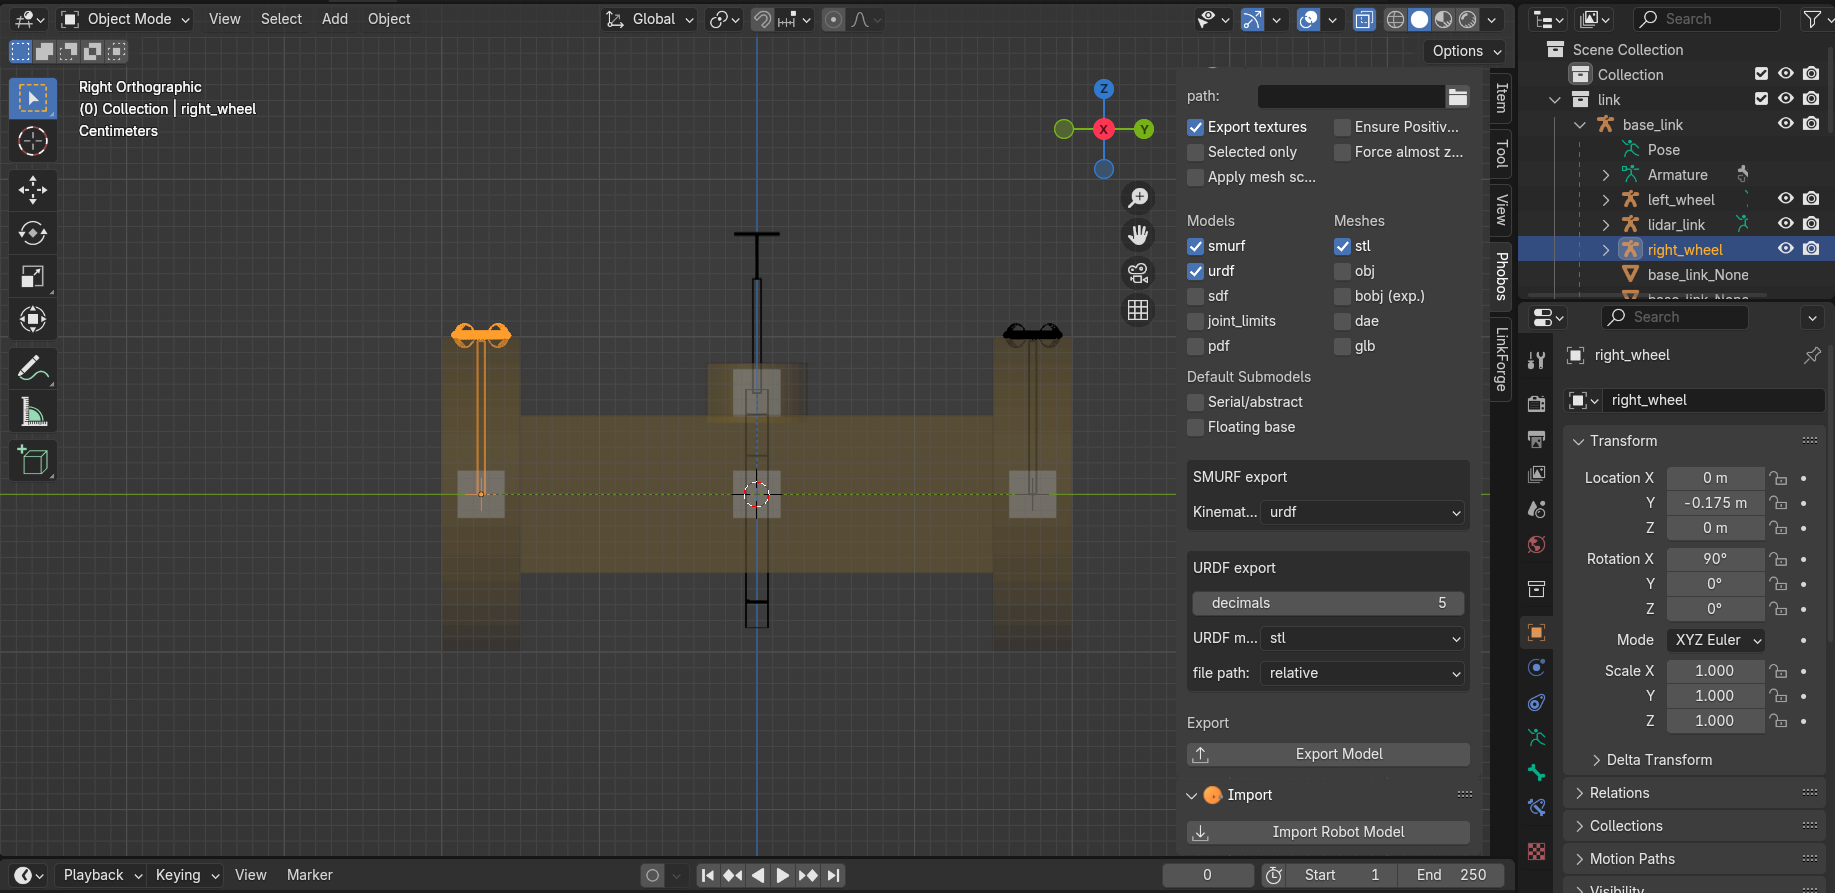
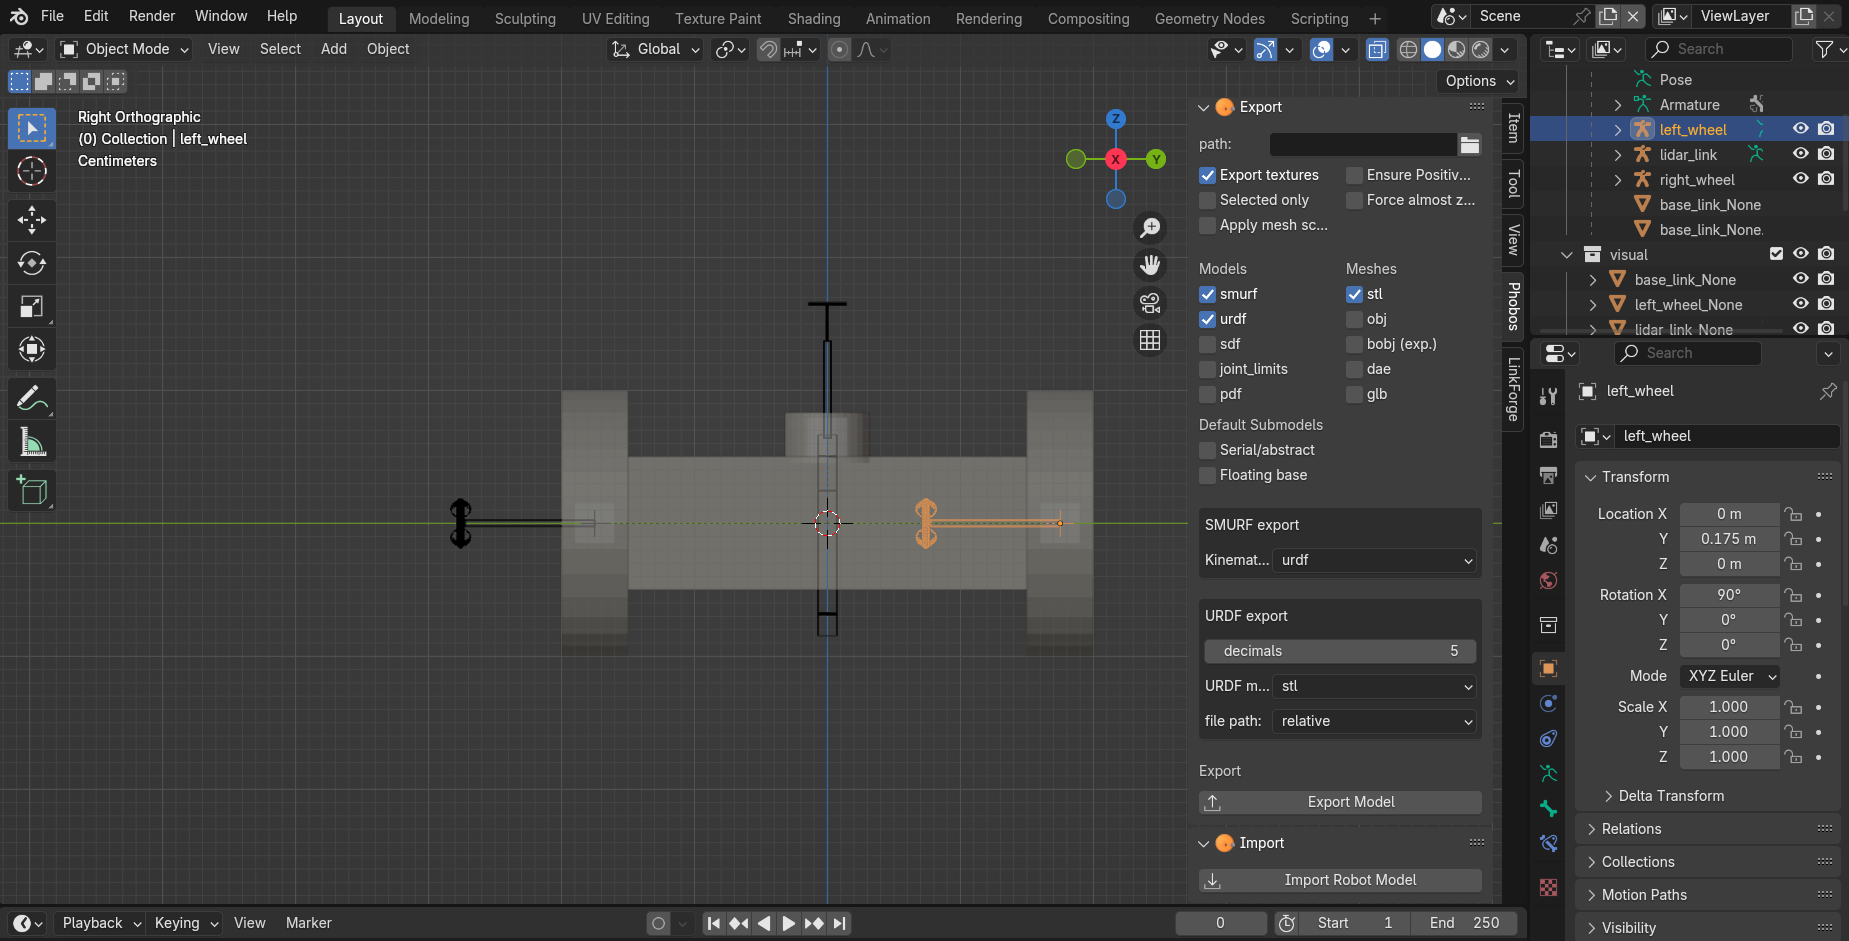
fix: the rotation axis of the wheels

diff --git a/source/_posts/URDF-Tips-and-the-Blender-LinkForge-Extension.md b/source/_posts/URDF-Tips-and-the-Blender-LinkForge-Extension.md
@@ -61,9 +61,9 @@ LinkForge 的官方文件有一篇 GUI 入門[教學](https://linkforge.readthed
       - *_collision 名稱的物件
 - 在 Blender 大綱點選 link 物件，在 Blender 右下角面板 Object data property 的 Empty → Display As 選 Arrows，會在 link origin 顯示局部座標軸
 - LinkForge link collision 點選 Auto-Generate 之後，才能再選 type
-- LinkForge joint axis 要看的是全域座標軸的方向，不是局部座標軸
-  - 例如 left_wheel_joint 的旋轉軸要選 Y(這是全域的 Y)，而不是局部的 Z
-  - URDF 其實是看局部 (Local) 座標系的，LinkForge 匯出時會幫忙轉換
+- LinkForge joint axis 要看的是局部座標軸
+  - 範例 left_wheel_joint 的旋轉軸要選 Y(這是全域的 Y)，我後來用 rviz 驗證實發現這是錯誤的
+  - URDF 其實是看局部 (Local) 座標系的，所以 left_wheel_joint 應該選擇局部的 Z 軸做旋轉
 - LinkForge Validate & Export 雖然勾選 export meshes，mesh format OBJ，但是此範例只有輸出 URDF 檔而已
   - 可能因為此範例是 URDF 本身看得懂的幾何圖形，不需要輸出成為網格
 
@@ -84,6 +84,10 @@ LinkForge 的官方文件有一篇 GUI 入門[教學](https://linkforge.readthed
 開啟新的 Blender 視窗，在 Phobos 面板點擊 Import Robot Model，選取 URDF 檔。
 
 在 Blender 大綱面板點選其中一個 joint，會看到一個類似螺絲釘的網格物件被選取，按下快捷鍵 R 和方向(x, y 或 z)，移動滑鼠，可以看到關節帶動 link 旋轉的效果。
+
+  - 附圖是 left_wheel_joint 在 URDF 設定繞 Z 軸旋轉的結果
+    - 這在 Blender phobos 會看到符合預期的螺絲釘方向（平行圓柱體的中軸線）
+    - 只是在 Blender 檢視輪子旋轉效果要按下 R 和方向 y，不是 z，我也會感到腦袋錯亂
 
 ![用 phobos 讀取 URDF 檔](10_phobos.png "import by phobos")
 
